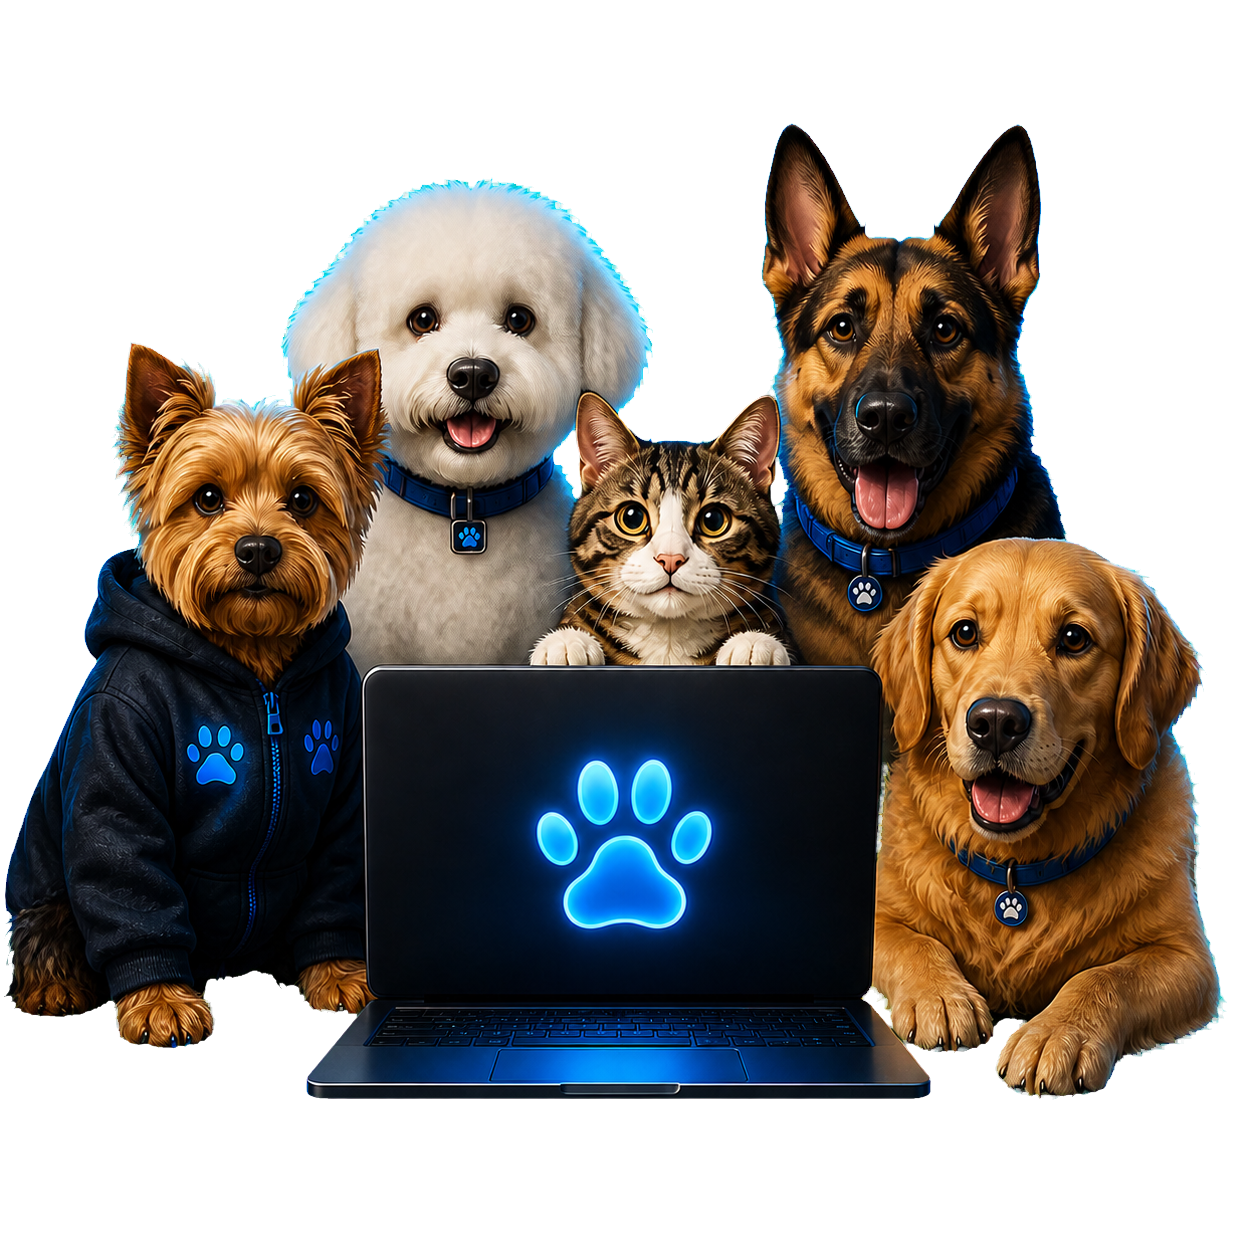
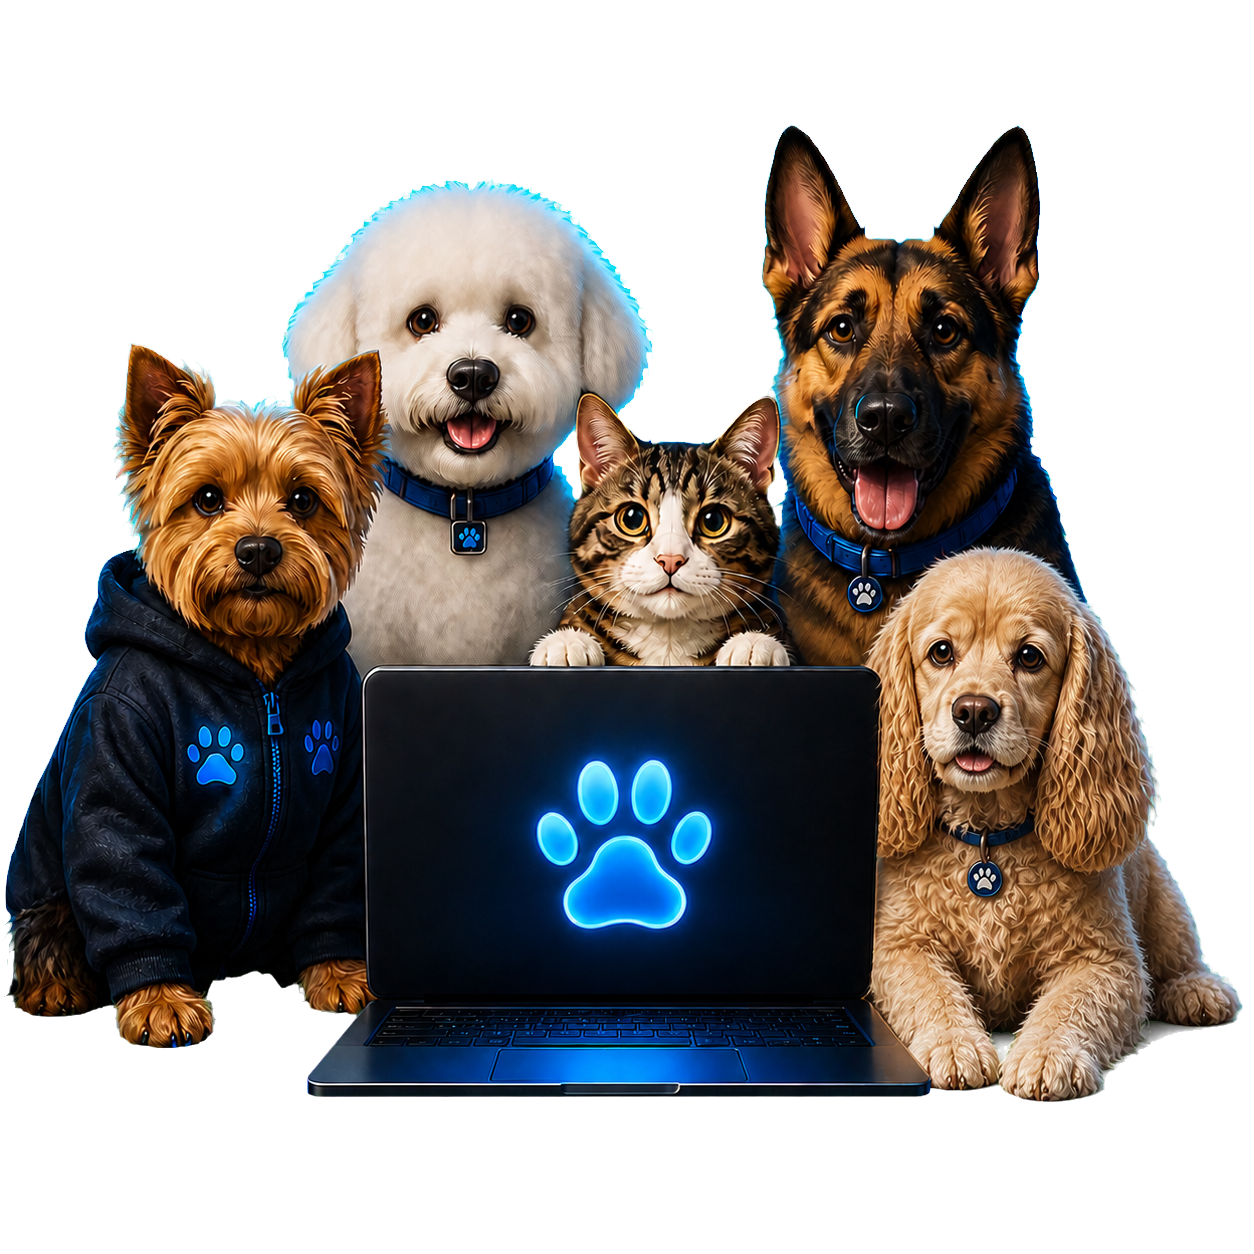
Se corrige la imagen de una precursora y se amplia el tamano de carga

diff --git a/app/cinematic-crisp.css b/app/cinematic-crisp.css
@@ -14,3 +14,7 @@
 /* La escena de reparación se integra como un recorte, igual que precursores. */
 .cin-method-media{background:transparent;overflow:visible}.cin-method-media:before,.cin-method-media:after{display:none}.cin-method-media img{object-fit:contain;filter:drop-shadow(0 24px 48px rgba(0,20,48,.42))}
 @media(max-width:720px){.cin-eyebrow{font-size:10px}.cin-chapter-links span{font-size:10px}.cin-chapter-links small{font-size:11px}.cin-services-grid article>p,.cin-benefit-list p{font-size:13px}}
+
+/* Pantalla de carga con presencia real y lectura inmediata. */
+.cin-preloader{row-gap:0}.cin-pre-mark{width:112px;height:112px;margin-bottom:34px;border-width:2px;box-shadow:0 0 90px rgba(35,120,255,.34)}.cin-pre-mark .cin-paw{transform:scale(1.75)}.cin-preloader p{font-size:16px;letter-spacing:3px;margin:0 0 18px}.cin-pre-track{width:min(520px,76vw);height:3px}.cin-preloader small{font-size:11px;letter-spacing:3px;margin-top:18px}
+@media(max-width:720px){.cin-pre-mark{width:92px;height:92px;margin-bottom:28px}.cin-pre-mark .cin-paw{transform:scale(1.4)}.cin-preloader p{font-size:13px;letter-spacing:2px}.cin-pre-track{width:min(380px,78vw);height:2px}.cin-preloader small{font-size:10px;letter-spacing:2px}}
